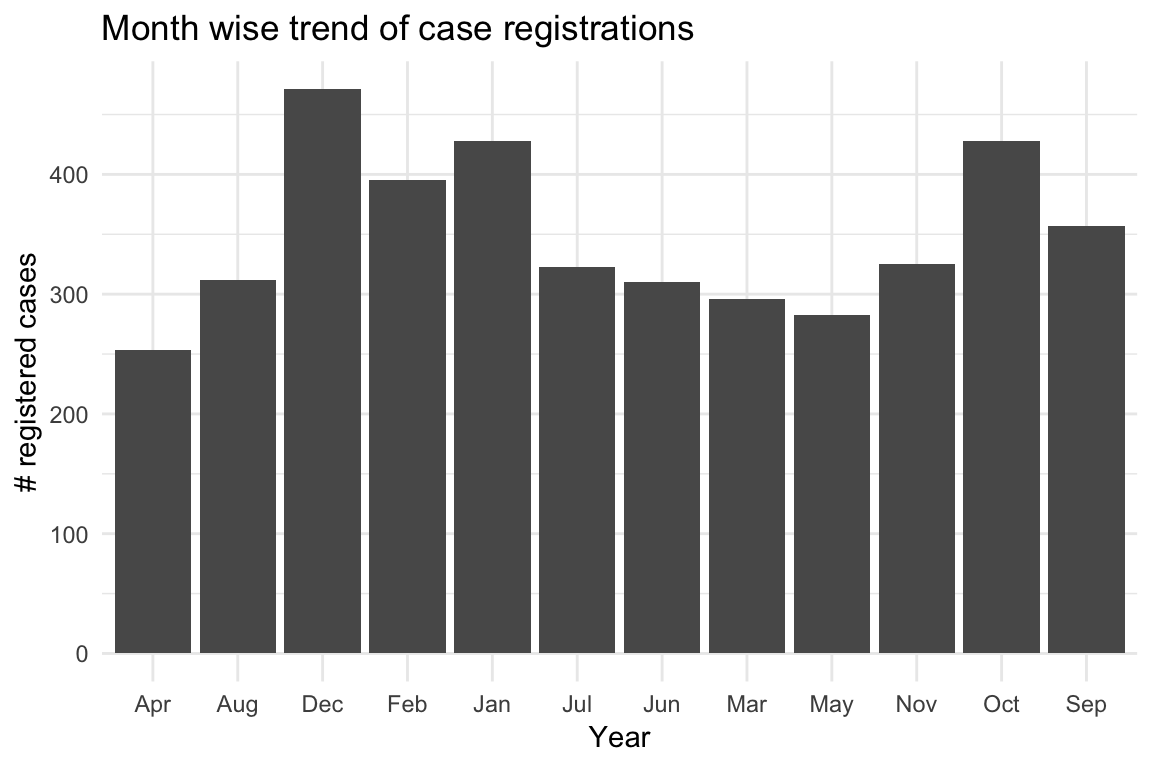
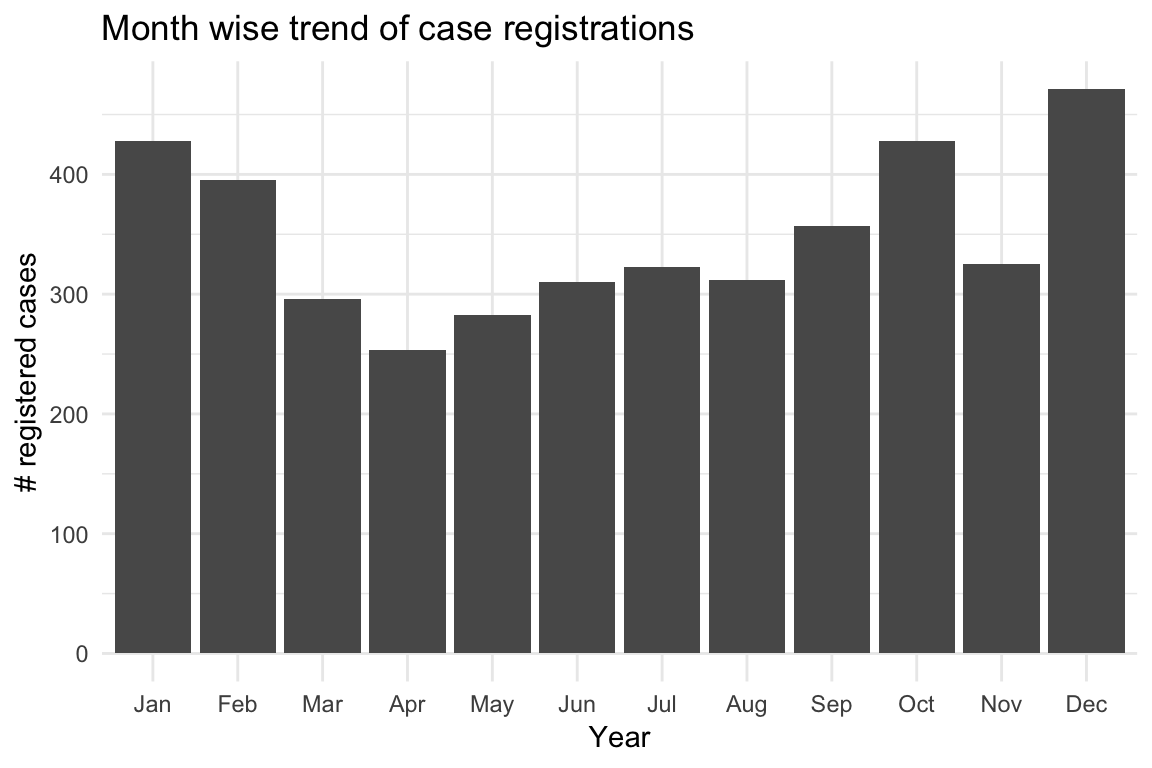
Update month order in graph

diff --git a/pocso_judgements_analyser/pocso_analysis_nb.html b/pocso_judgements_analyser/pocso_analysis_nb.html
@@ -260,8 +260,6 @@ div.tocify {
 <p><strong>Region</strong>: For the purpose of this pilot, we are doing a textual analysis of some judgements from the Thane District of Maharashtra. Here are some numbers</p>
 <p><strong>Timeline</strong>: 2013 - 2019 (March)</p>
 <p><strong>Case Type</strong>: All cases (with and without judgement)</p>
-<p><strong>Total cases analysed</strong>: <strong>4181</strong></p>
-<p><strong>Total judgemnts analysed</strong>: <strong>1326</strong></p>
 </div>
 <div id="when-are-pocso-cases-registered-and-disposed" class="section level1">
 <h1><span class="header-section-number">4</span> When are POCSO cases registered and disposed</h1>
@@ -335,8 +333,8 @@ div.tocify {
 <blockquote>
 <p>The first coulmn displays the ID of the judgement</p>
 </blockquote>
-<div id="htmlwidget-5d88673ce81db2295703" style="width:100%;height:auto;" class="datatables html-widget"></div>
-<script type="application/json" data-for="htmlwidget-5d88673ce81db2295703">{"x":{"filter":"none","data":[["text86","text86","text137","text137","text137","text137","text137","text141","text141","text141","text142","text142","text142","text152","text152","text178","text178","text678","text767","text840","text840","text840","text840","text843","text850","text850","text850","text866","text900","text964","text975","text1098","text1304","text1306"],[1238,2429,354,437,1995,4226,8133,462,559,820,462,559,820,343,519,330,399,1776,638,285,1134,1474,1658,226,156,432,636,409,334,1029,712,187,453,168],[1238,2429,354,437,1995,4226,8133,462,559,820,462,559,820,343,519,330,399,1776,638,285,1134,1474,1658,226,156,432,636,409,334,1029,712,187,453,168],["clip of their intercourse through","accused Rahul @ Rohan through","uploaded on social networking '","has an account on '","uploaded on the social network","enquired with her about her","video clip on social network","Ankit Mandora contacted Rucha on","Exh . 1 chatting on","information received by them through","Ankit Mandora contacted Rucha on","Exh . 1 chatting on","information received by them through","clip on the internet ,","uploaded on the internet and","some obscene messages on her","created obscene messages from the","has forwarded a message on","to her daughter on the","20 years contacted victim on","No . 2 Akshay on","had contacted with him on","accused No . 2 on","when it was checked ,","would upload her photo on","will upload her photo on","saved in his mobile on","The accused side submitted certain","photographs on internet and via","admits the print out of",", Malaika Khan and also","it to his friends on","accused filed their messages on","her photos on Facebook ,"],["whatsapp","whatsapp","whatsapp","whatsapp","whatsapp","whatsapp","whatsapp","whatsapp","whatsapp","whatsapp","whatsapp","whatsapp","whatsapp","whatsapp","whatsapp","whatsapp","whatsapp","Whatsapp","WhatsApp","whatsapp","whatsapp","whatsapp","whatsapp","whatsapp","WhatsApp","WhatsApp","WhatsApp","whatsapp","Whatsapp","whatsapp","whatsapp","WhatsApp","WhatsApp","WhatsApp"],["and facebook . Then ,","conversation and facebook chatting ,","' and violated privacy of","' to which she replied","publicly , punishable under Section","account and then made request","publicly . Moreover , there","and he sent her nude",". 4 ] On 26","technology . Their custodial interrogation","and he sent her nude",". 4 ] On 26","technology . Their custodial interrogation","and social media and 2","and it was also sent",". Therefore , the report","and putforth it to the","account of the victim intending","group . She immediately identified","and followed her and he","and it was resulted into","and there were sexual relation","and she was contacting physically","account was found and her","to defame her and also","and defame her and and","and then he dragged her","record chowing chatting between them","and called near . .","chatting between she and accused","messages and photographs of CCTV",". He also sent the","which shows that there is","and also threatened her to"],["whatsapp","whatsapp","whatsapp","whatsapp","whatsapp","whatsapp","whatsapp","whatsapp","whatsapp","whatsapp","whatsapp","whatsapp","whatsapp","whatsapp","whatsapp","whatsapp","whatsapp","whatsapp","whatsapp","whatsapp","whatsapp","whatsapp","whatsapp","whatsapp","whatsapp","whatsapp","whatsapp","whatsapp","whatsapp","whatsapp","whatsapp","whatsapp","whatsapp","whatsapp"]],"container":"<table class=\"display\">\n  <thead>\n    <tr>\n      <th>docname<\/th>\n      <th>from<\/th>\n      <th>to<\/th>\n      <th>pre<\/th>\n      <th>keyword<\/th>\n      <th>post<\/th>\n      <th>pattern<\/th>\n    <\/tr>\n  <\/thead>\n<\/table>","options":{"searching":false,"lengthChange":false,"ordering":false,"autoWidth":true,"bPaginate":true,"bInfo":true,"paging":true,"columnDefs":[{"className":"dt-right","targets":[1,2]}],"order":[],"orderClasses":false}},"evals":[],"jsHooks":[]}</script>
+<div id="htmlwidget-b04a64c51222f7bd28ec" style="width:100%;height:auto;" class="datatables html-widget"></div>
+<script type="application/json" data-for="htmlwidget-b04a64c51222f7bd28ec">{"x":{"filter":"none","data":[["text86","text86","text137","text137","text137","text137","text137","text141","text141","text141","text142","text142","text142","text152","text152","text178","text178","text678","text767","text840","text840","text840","text840","text843","text850","text850","text850","text866","text900","text964","text975","text1098","text1304","text1306"],[1238,2429,354,437,1995,4226,8133,462,559,820,462,559,820,343,519,330,399,1776,638,285,1134,1474,1658,226,156,432,636,409,334,1029,712,187,453,168],[1238,2429,354,437,1995,4226,8133,462,559,820,462,559,820,343,519,330,399,1776,638,285,1134,1474,1658,226,156,432,636,409,334,1029,712,187,453,168],["clip of their intercourse through","accused Rahul @ Rohan through","uploaded on social networking '","has an account on '","uploaded on the social network","enquired with her about her","video clip on social network","Ankit Mandora contacted Rucha on","Exh . 1 chatting on","information received by them through","Ankit Mandora contacted Rucha on","Exh . 1 chatting on","information received by them through","clip on the internet ,","uploaded on the internet and","some obscene messages on her","created obscene messages from the","has forwarded a message on","to her daughter on the","20 years contacted victim on","No . 2 Akshay on","had contacted with him on","accused No . 2 on","when it was checked ,","would upload her photo on","will upload her photo on","saved in his mobile on","The accused side submitted certain","photographs on internet and via","admits the print out of",", Malaika Khan and also","it to his friends on","accused filed their messages on","her photos on Facebook ,"],["whatsapp","whatsapp","whatsapp","whatsapp","whatsapp","whatsapp","whatsapp","whatsapp","whatsapp","whatsapp","whatsapp","whatsapp","whatsapp","whatsapp","whatsapp","whatsapp","whatsapp","Whatsapp","WhatsApp","whatsapp","whatsapp","whatsapp","whatsapp","whatsapp","WhatsApp","WhatsApp","WhatsApp","whatsapp","Whatsapp","whatsapp","whatsapp","WhatsApp","WhatsApp","WhatsApp"],["and facebook . Then ,","conversation and facebook chatting ,","' and violated privacy of","' to which she replied","publicly , punishable under Section","account and then made request","publicly . Moreover , there","and he sent her nude",". 4 ] On 26","technology . Their custodial interrogation","and he sent her nude",". 4 ] On 26","technology . Their custodial interrogation","and social media and 2","and it was also sent",". Therefore , the report","and putforth it to the","account of the victim intending","group . She immediately identified","and followed her and he","and it was resulted into","and there were sexual relation","and she was contacting physically","account was found and her","to defame her and also","and defame her and and","and then he dragged her","record chowing chatting between them","and called near . .","chatting between she and accused","messages and photographs of CCTV",". He also sent the","which shows that there is","and also threatened her to"],["whatsapp","whatsapp","whatsapp","whatsapp","whatsapp","whatsapp","whatsapp","whatsapp","whatsapp","whatsapp","whatsapp","whatsapp","whatsapp","whatsapp","whatsapp","whatsapp","whatsapp","whatsapp","whatsapp","whatsapp","whatsapp","whatsapp","whatsapp","whatsapp","whatsapp","whatsapp","whatsapp","whatsapp","whatsapp","whatsapp","whatsapp","whatsapp","whatsapp","whatsapp"]],"container":"<table class=\"display\">\n  <thead>\n    <tr>\n      <th>docname<\/th>\n      <th>from<\/th>\n      <th>to<\/th>\n      <th>pre<\/th>\n      <th>keyword<\/th>\n      <th>post<\/th>\n      <th>pattern<\/th>\n    <\/tr>\n  <\/thead>\n<\/table>","options":{"searching":false,"lengthChange":false,"ordering":false,"autoWidth":true,"bPaginate":true,"bInfo":true,"paging":true,"columnDefs":[{"className":"dt-right","targets":[1,2]}],"order":[],"orderClasses":false}},"evals":[],"jsHooks":[]}</script>
 <hr />
 <p><a href="https://civicdatalab.in/"><img src="CDL_footer.png" /></a></p>
 <hr />
